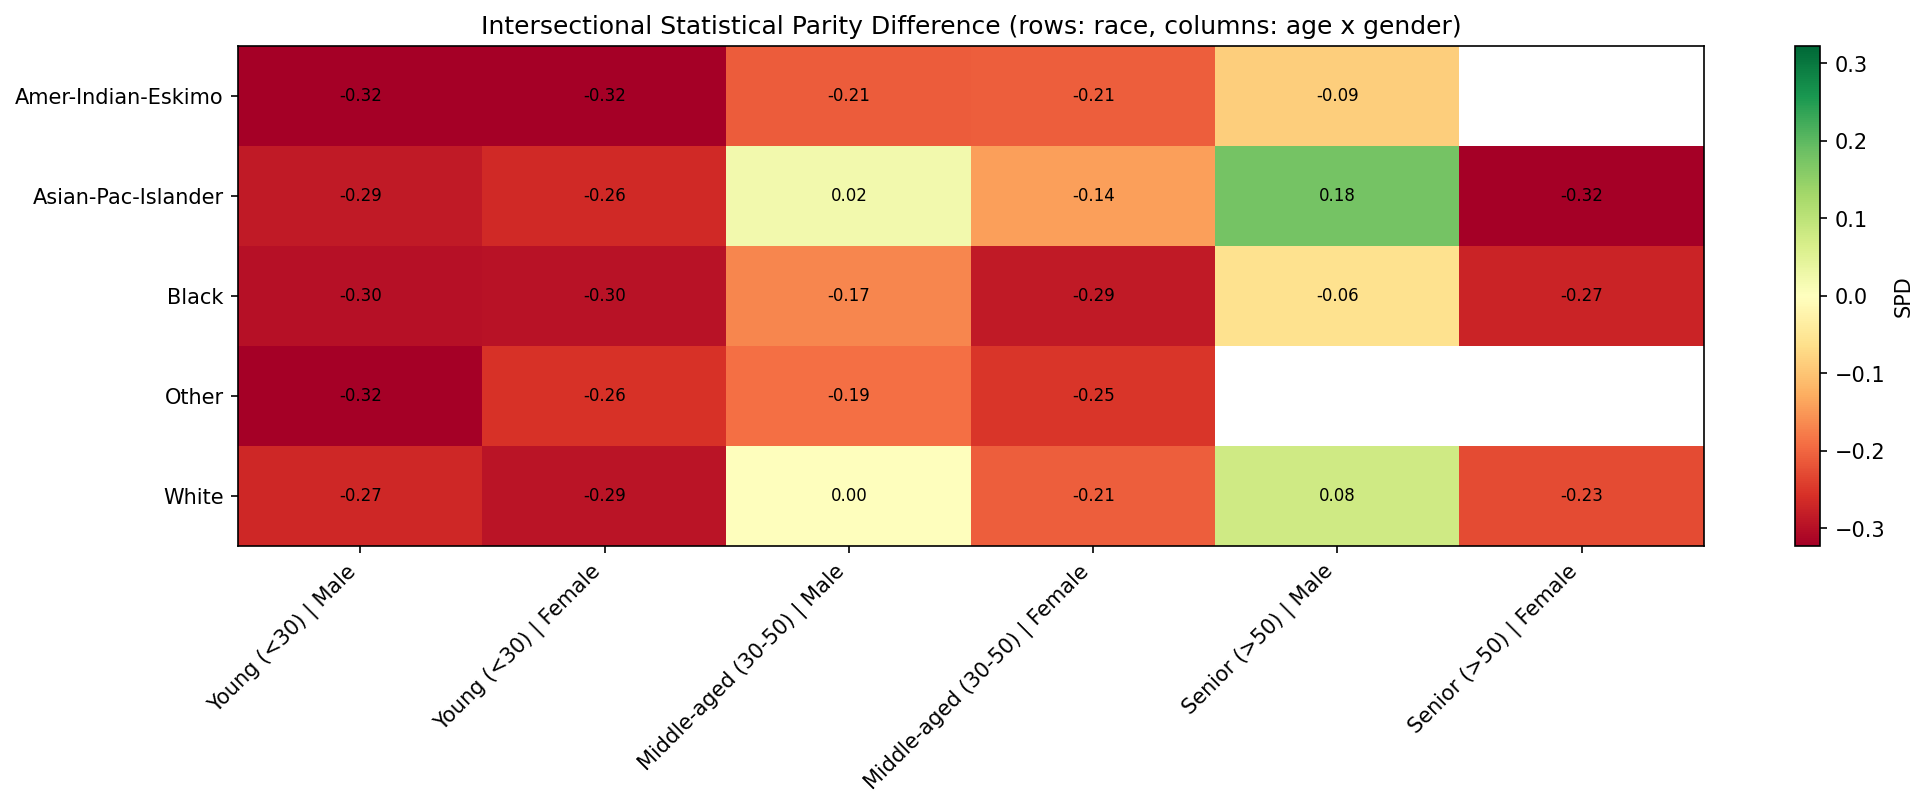
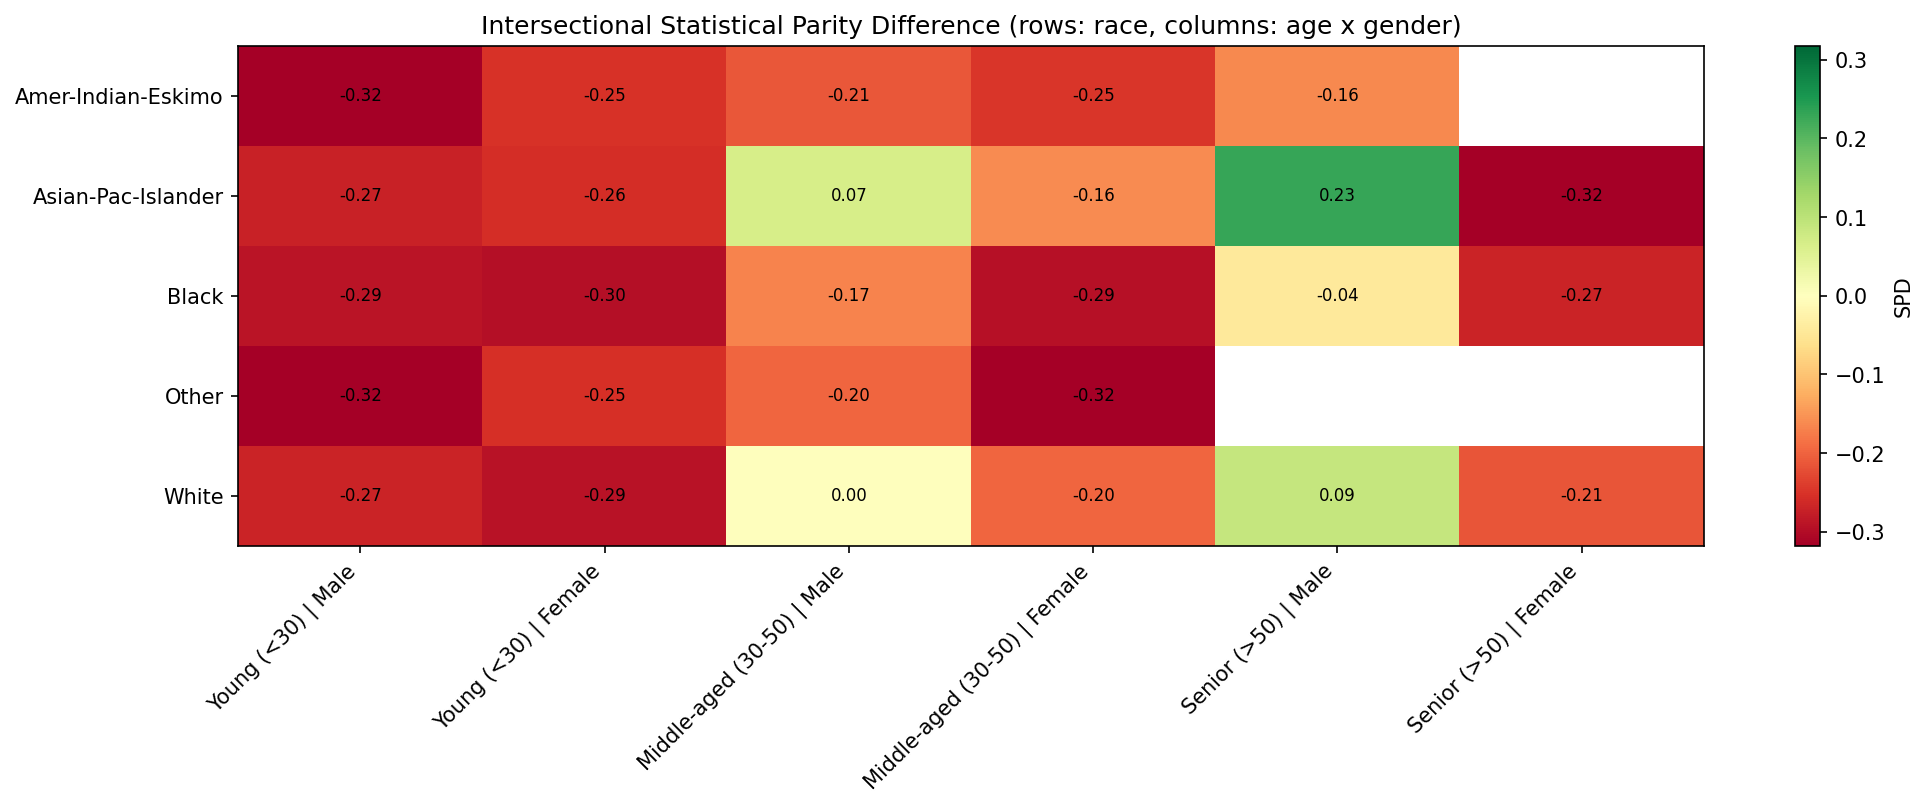
recognise nan as a missing value and refresh the committed run

diff --git a/README.md b/README.md
@@ -18,21 +18,21 @@ From the run committed in [`results/`](results/) (logistic regression, 30% held-
 
 | | |
 |---|---|
-| Model accuracy / ROC AUC | 0.847 / 0.904 |
-| Populated intersectional subgroups | 30 |
+| Model accuracy / ROC AUC | 0.844 / 0.902 |
+| Populated intersectional subgroups | 29 |
 | Subgroups large enough to score (n ≥ 10) | 27 |
 | **Subgroups breaching the four-fifths rule** | **22 of 27 (81%)** |
 | Worst DIR | `Male_Other_Young (<30)` = 0.000 |
-| Worst SPD | `Male_Other_Young (<30)` = −0.322 |
-| Privileged baseline selection rate | 0.322 |
+| Worst SPD | `Male_Other_Young (<30)` = −0.317 |
+| Privileged baseline selection rate | 0.317 |
 
 The masking effect the paper argues for, measured on the same predictions:
 
 | Attribute | Worst *single-attribute* SPD | Worst SPD inside that group | Hidden gap |
 |---|---|---|---|
-| Race | −0.138 (`Other`) | −0.322 (`Male_Other_Young (<30)`) | **0.184** |
-| Gender | −0.187 (`Female`) | −0.322 (`Female_Amer-Indian-Eskimo_Young (<30)`) | **0.136** |
-| Age | −0.209 (`Young (<30)`) | −0.322 (`Male_Other_Young (<30)`) | **0.114** |
+| Race | −0.142 (`Other`) | −0.317 (`Male_Other_Young (<30)`) | **0.175** |
+| Gender | −0.185 (`Female`) | −0.317 (`Female_Asian-Pac-Islander_Senior (>50)`) | **0.133** |
+| Age | −0.208 (`Young (<30)`) | −0.317 (`Male_Other_Young (<30)`) | **0.109** |
 
 A conventional gender audit reports a −0.19 parity gap. The worst-off subgroup of women sits at
 −0.32 — nearly twice as bad, and invisible to that audit.
@@ -187,10 +187,16 @@ reproduces the paper's central claim on controlled data.
 
 ## Notes on reproducing the paper
 
-* The paper reports **29** populated subgroups; this run finds **30**. The difference is an
-  age-binning fix: `pandas.cut` closes intervals on the right, so the original edges
-  `[0, 30, 50, 150]` put every 30-year-old in the `Young (<30)` band, contradicting the band's own
-  label. The edges are now `[0, 29, 50, 150]`, giving `<30 / 30–50 / >50` as written.
+* This run keeps **45,222** of the 48,842 raw rows. The published files mark a missing value with
+  `?`, but the `ucimlrepo` download returns some of the same fields as a true `NaN`, so both forms
+  have to be recognised. An earlier version of the cleaner stringified the frame before filtering,
+  which turned those `NaN`s into the literal category `"nan"` and kept about 2,400 rows that the
+  documented rule ("drop rows with missing values") says to drop — one-hot encoding
+  `workclass_nan` as if it were a kind of employer.
+* The age binning is fixed relative to the paper: `pandas.cut` closes intervals on the right, so
+  the original edges `[0, 30, 50, 150]` put every 30-year-old in the `Young (<30)` band,
+  contradicting the band's own label. The edges are now `[0, 29, 50, 150]`, giving
+  `<30 / 30–50 / >50` as written.
 * The paper's baseline selection rate was 0.11, versus 0.32 here. The notebook rebuilt its
   protected-attribute arrays by hand after several `reset_index` calls, and the demographics drifted
   out of alignment with the predictions. `prepare_data` now carries the protected attributes through
